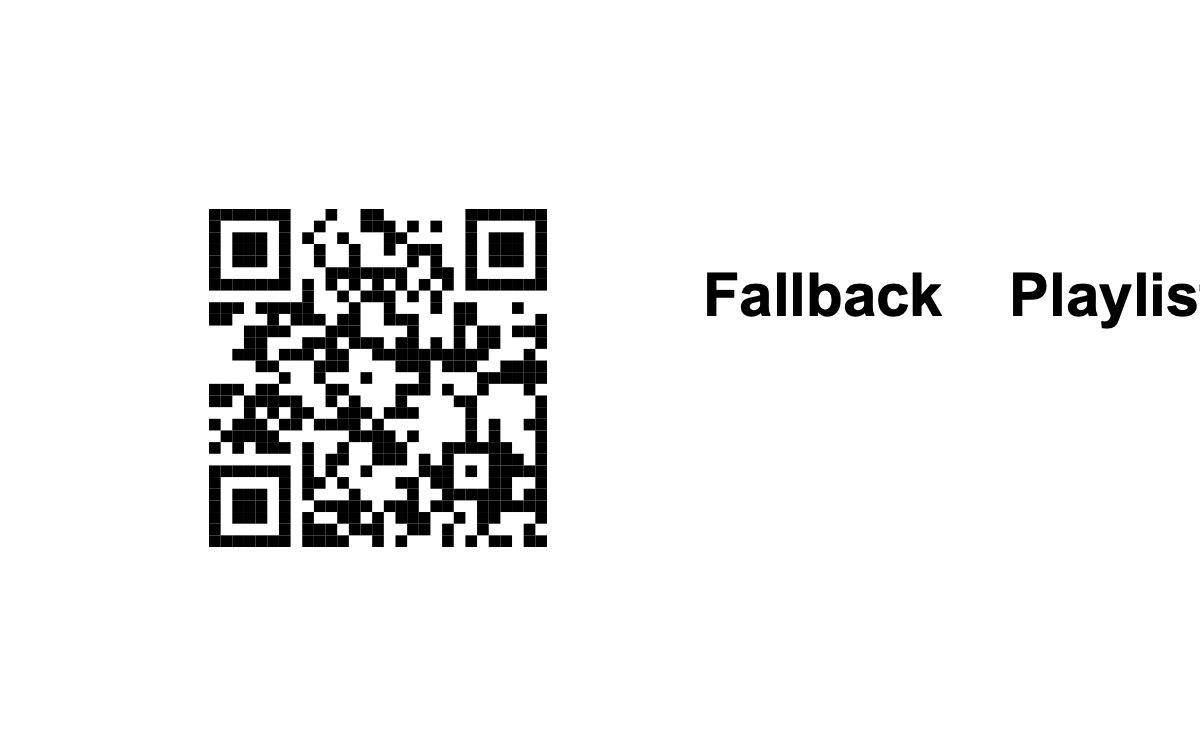
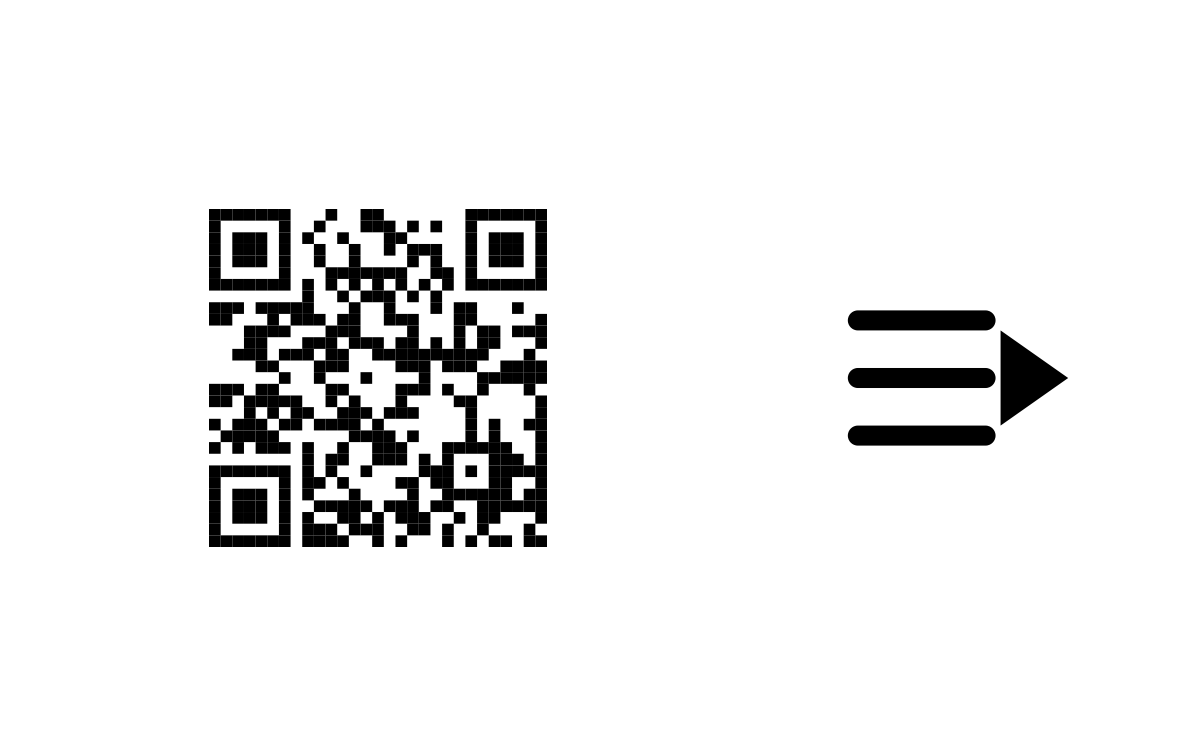
Use symbols on validation control cards

Changed region(s): [[0.5858, 0.3347, 1.0, 0.6085]]

diff --git a/scripts/generate_validation_cards.py b/scripts/generate_validation_cards.py
@@ -19,6 +19,8 @@ QR_SCALE = 0.5
 QR_BORDER_MODULES = 4
 CARD_BACKGROUND = "#FFFFFF"
 TEXT_COLOR = "#000000"
+SYMBOL_VIEWBOX_SIZE = 200
+SYMBOL_STROKE_WIDTH = 16
 
 LABELS = {
     "control-smoke-track": "Smoke Track",
@@ -43,8 +45,8 @@ def parse_args() -> argparse.Namespace:
     )
     parser.add_argument(
         "--output-dir",
-        default="spec/control cards",
-        help="Directory for the generated card PNGs. Defaults to spec/control cards.",
+        default="docs/control cards",
+        help="Directory for the generated card PNGs. Defaults to docs/control cards.",
     )
     return parser.parse_args()
 
@@ -70,6 +72,7 @@ def main() -> None:
             output_path=png_path,
             label=label,
             payload=payload,
+            symbol=stem,
         )
 
 
@@ -80,8 +83,9 @@ def render_card_png(
     output_path: Path,
     label: str,
     payload: str,
+    symbol: str,
 ) -> None:
-    svg = render_card_svg(label=label, payload=payload)
+    svg = render_card_svg(label=label, payload=payload, symbol=symbol)
     with tempfile.TemporaryDirectory() as temp_dir_name:
         temp_dir = Path(temp_dir_name)
         temp_svg = temp_dir / f"{output_path.stem}.svg"
@@ -102,19 +106,25 @@ def render_card_png(
         if qlmanage is None:
             raise RuntimeError("No working PNG rasterizer is available for validation cards.")
 
-        subprocess.run(
-            [str(qlmanage), "-t", "-s", str(CANVAS_WIDTH), "-o", str(temp_dir), str(temp_svg)],
-            check=True,
-            capture_output=True,
-            text=True,
-        )
+        try:
+            subprocess.run(
+                [str(qlmanage), "-t", "-s", str(CANVAS_WIDTH), "-o", str(temp_dir), str(temp_svg)],
+                check=True,
+                capture_output=True,
+                text=True,
+            )
+        except subprocess.CalledProcessError as exc:
+            raise RuntimeError(
+                "Quick Look rasterization failed. See docs/control cards/README.md for the "
+                "recommended regeneration workflow."
+            ) from exc
         quicklook_output = temp_dir / f"{temp_svg.name}.png"
         if not quicklook_output.is_file():
             raise FileNotFoundError(f"Quick Look did not produce the expected PNG: {quicklook_output}")
         quicklook_output.replace(output_path)
 
 
-def render_card_svg(*, label: str, payload: str) -> str:
+def render_card_svg(*, label: str, payload: str, symbol: str | None = None) -> str:
     modules = build_qr_modules(payload)
     qr_module_count = len(modules)
     qr_area_size = CANVAS_HEIGHT - (2 * PADDING)
@@ -127,11 +137,9 @@ def render_card_svg(*, label: str, payload: str) -> str:
     right_y = PADDING
     right_width = CANVAS_WIDTH - right_x - PADDING
     right_height = qr_area_size
-
-    label_lines = wrap_label(label)
-    line_height = 72
-    label_block_height = line_height * len(label_lines)
-    label_start_y = right_y + (right_height / 2) - (label_block_height / 2) + 10
+    symbol_center_x = right_x + (right_width / 2)
+    symbol_center_y = right_y + (right_height / 2)
+    symbol_scale = (min(right_width, right_height) * 0.62) / SYMBOL_VIEWBOX_SIZE
 
     lines = [
         '<?xml version="1.0" encoding="UTF-8"?>',
@@ -142,7 +150,7 @@ def render_card_svg(*, label: str, payload: str) -> str:
         f"  <title>{escape(label)}</title>",
         f'  <rect width="{CANVAS_WIDTH}" height="{CANVAS_HEIGHT}" fill="{CARD_BACKGROUND}"/>',
         f'  <rect x="{qr_origin_x}" y="{qr_origin_y}" width="{qr_size}" height="{qr_size}" fill="#FFFFFF"/>',
-        '  <g fill="#000000">',
+        '  <g id="qr-modules" fill="#000000">',
     ]
 
     for y, row in enumerate(modules):
@@ -158,34 +166,153 @@ def render_card_svg(*, label: str, payload: str) -> str:
     lines.extend(
         [
             "  </g>",
-            (
-                f'  <text x="{right_x + (right_width / 2):.1f}" y="{label_start_y:.1f}" '
-                f'font-family="Arial, Helvetica, sans-serif" font-size="60" font-weight="700" '
-                f'fill="{TEXT_COLOR}" text-anchor="middle">'
+            *render_symbol_svg(
+                symbol=symbol or label,
+                center_x=symbol_center_x,
+                center_y=symbol_center_y,
+                scale=symbol_scale,
             ),
         ]
     )
-    for index, line in enumerate(label_lines):
-        dy = 0 if index == 0 else line_height
-        lines.append(f'    <tspan x="{right_x + (right_width / 2):.1f}" dy="{dy}">{escape(line)}</tspan>')
-    lines.extend(["  </text>", "</svg>"])
+    lines.append("</svg>")
     return "\n".join(lines) + "\n"
 
 
-def wrap_label(label: str) -> list[str]:
-    words = label.split()
-    lines: list[str] = []
-    current: list[str] = []
-    for word in words:
-        candidate = " ".join([*current, word])
-        if len(candidate) <= 13 or not current:
-            current.append(word)
-            continue
-        lines.append(" ".join(current))
-        current = [word]
-    if current:
-        lines.append(" ".join(current))
-    return lines
+def render_symbol_svg(*, symbol: str, center_x: float, center_y: float, scale: float) -> list[str]:
+    renderers = {
+        "control-smoke-track": render_music_note_symbol,
+        "control-fallback-album": render_album_symbol,
+        "control-fallback-playlist": render_playlist_symbol,
+        "control-playback-stop": render_stop_symbol,
+        "control-playback-next": render_next_symbol,
+        "control-mode-replace": render_replace_mode_symbol,
+        "control-mode-queue": render_queue_mode_symbol,
+        "control-volume-low": lambda: render_volume_symbol(waves=1),
+        "control-volume-medium": lambda: render_volume_symbol(waves=2),
+        "control-volume-high": lambda: render_volume_symbol(waves=3),
+        "control-setup-wifi-reset": render_wifi_reset_symbol,
+        "control-setup-receiver-reauth": render_receiver_reauth_symbol,
+        "control-system-shutdown": render_shutdown_symbol,
+    }
+    elements = renderers.get(symbol, render_unknown_symbol)()
+    return [
+        (
+            f'  <g id="card-symbol" data-symbol="{escape(symbol)}" '
+            f'transform="translate({center_x:.1f} {center_y:.1f}) scale({scale:.3f})" '
+            f'stroke="{TEXT_COLOR}" fill="none" stroke-width="{SYMBOL_STROKE_WIDTH}" '
+            'stroke-linecap="round" stroke-linejoin="round">'
+        ),
+        *[f"    {element}" for element in elements],
+        "  </g>",
+    ]
+
+
+def render_music_note_symbol() -> list[str]:
+    return [
+        '<ellipse cx="-34" cy="58" rx="24" ry="22" fill="#000000" stroke="none"/>',
+        '<ellipse cx="34" cy="34" rx="24" ry="22" fill="#000000" stroke="none"/>',
+        '<rect x="-8" y="-82" width="16" height="122" fill="#000000" stroke="none"/>',
+        '<rect x="60" y="-104" width="16" height="114" fill="#000000" stroke="none"/>',
+        '<polygon points="8,-102 76,-122 76,-56 8,-36" fill="#000000" stroke="none"/>',
+    ]
+
+
+def render_album_symbol() -> list[str]:
+    return [
+        '<circle cx="0" cy="0" r="82"/>',
+        '<circle cx="0" cy="0" r="48"/>',
+        '<circle cx="0" cy="0" r="12" fill="#000000" stroke="none"/>',
+    ]
+
+
+def render_playlist_symbol() -> list[str]:
+    return [
+        '<line x1="-80" y1="-46" x2="22" y2="-46"/>',
+        '<line x1="-80" y1="0" x2="22" y2="0"/>',
+        '<line x1="-80" y1="46" x2="22" y2="46"/>',
+        '<polygon points="34,-38 88,0 34,38" fill="#000000" stroke="none"/>',
+    ]
+
+
+def render_stop_symbol() -> list[str]:
+    return [
+        '<rect x="-56" y="-56" width="112" height="112" rx="12" fill="#000000" stroke="none"/>',
+    ]
+
+
+def render_next_symbol() -> list[str]:
+    return [
+        '<polygon points="-84,-62 -28,0 -84,62" fill="#000000" stroke="none"/>',
+        '<polygon points="-28,-62 28,0 -28,62" fill="#000000" stroke="none"/>',
+        '<rect x="48" y="-74" width="20" height="148" rx="10" fill="#000000" stroke="none"/>',
+    ]
+
+
+def render_replace_mode_symbol() -> list[str]:
+    return [
+        '<line x1="-82" y1="-46" x2="14" y2="-46"/>',
+        '<line x1="-82" y1="0" x2="14" y2="0"/>',
+        '<line x1="-82" y1="46" x2="14" y2="46"/>',
+        '<line x1="38" y1="-24" x2="82" y2="24"/>',
+        '<line x1="82" y1="-24" x2="38" y2="24"/>',
+    ]
+
+
+def render_queue_mode_symbol() -> list[str]:
+    return [
+        '<line x1="-82" y1="-46" x2="14" y2="-46"/>',
+        '<line x1="-82" y1="0" x2="14" y2="0"/>',
+        '<line x1="-82" y1="46" x2="14" y2="46"/>',
+        '<line x1="60" y1="-28" x2="60" y2="28"/>',
+        '<line x1="32" y1="0" x2="88" y2="0"/>',
+    ]
+
+
+def render_volume_symbol(*, waves: int) -> list[str]:
+    elements = [
+        '<polygon points="-84,-28 -48,-28 -14,-60 -14,60 -48,28 -84,28" fill="#000000" stroke="none"/>',
+    ]
+    wave_paths = [
+        '<path d="M 18 -18 Q 40 0 18 18"/>',
+        '<path d="M 34 -38 Q 72 0 34 38"/>',
+        '<path d="M 50 -58 Q 104 0 50 58"/>',
+    ]
+    elements.extend(wave_paths[:waves])
+    return elements
+
+
+def render_wifi_reset_symbol() -> list[str]:
+    return [
+        '<path d="M -78 10 Q 0 -64 78 10"/>',
+        '<path d="M -52 26 Q 0 -22 52 26"/>',
+        '<path d="M -26 44 Q 0 18 26 44"/>',
+        '<circle cx="0" cy="64" r="8" fill="#000000" stroke="none"/>',
+        '<path d="M 16 -78 A 92 92 0 1 0 82 20"/>',
+        '<polyline points="60,14 82,20 76,-2"/>',
+    ]
+
+
+def render_receiver_reauth_symbol() -> list[str]:
+    return [
+        '<rect x="-84" y="-54" width="88" height="108" rx="16"/>',
+        '<line x1="-62" y1="70" x2="-18" y2="70"/>',
+        '<circle cx="52" cy="-8" r="22"/>',
+        '<path d="M 30 -8 H -10 V 18 H 8 V 4 H 24"/>',
+    ]
+
+
+def render_shutdown_symbol() -> list[str]:
+    return [
+        '<path d="M 0 -88 V -18"/>',
+        '<path d="M 48 -66 A 74 74 0 1 1 -48 -66"/>',
+    ]
+
+
+def render_unknown_symbol() -> list[str]:
+    return [
+        '<circle cx="0" cy="0" r="82"/>',
+        '<line x1="-34" y1="0" x2="34" y2="0"/>',
+    ]
 
 
 if __name__ == "__main__":

diff --git a/tests/test_generate_validation_cards.py b/tests/test_generate_validation_cards.py
@@ -23,6 +23,7 @@ class ValidationCardLayoutTests(unittest.TestCase):
         svg = validation_cards.render_card_svg(
             label="Stop",
             payload="jukebox:playback:stop",
+            symbol="control-playback-stop",
         )
 
         root = ET.fromstring(svg)
@@ -41,12 +42,23 @@ class ValidationCardLayoutTests(unittest.TestCase):
         self.assertAlmostEqual(float(qr_rect.attrib["width"]), expected_qr_size)
         self.assertAlmostEqual(float(qr_rect.attrib["height"]), expected_qr_size)
 
-        text = root.find("./svg:text", SVG_NS)
-        self.assertIsNotNone(text)
-        assert text is not None
-        self.assertAlmostEqual(float(text.attrib["x"]), right_x + (right_width / 2))
+        symbol = root.find("./svg:g[@id='card-symbol']", SVG_NS)
+        self.assertIsNotNone(symbol)
+        assert symbol is not None
+        expected_center_x = right_x + (right_width / 2)
+        expected_center_y = validation_cards.PADDING + (qr_area_size / 2)
+        expected_scale = (min(right_width, qr_area_size) * 0.62) / validation_cards.SYMBOL_VIEWBOX_SIZE
 
-        module_rects = root.findall("./svg:g/svg:rect", SVG_NS)
+        self.assertEqual(symbol.attrib["data-symbol"], "control-playback-stop")
+        self.assertEqual(
+            symbol.attrib["transform"],
+            f"translate({expected_center_x:.1f} {expected_center_y:.1f}) scale({expected_scale:.3f})",
+        )
+        self.assertEqual(root.find("./svg:title", SVG_NS).text, "Stop")
+        self.assertIsNone(root.find("./svg:text", SVG_NS))
+        self.assertGreater(len(list(symbol)), 0)
+
+        module_rects = root.findall("./svg:g[@id='qr-modules']/svg:rect", SVG_NS)
         self.assertGreater(len(module_rects), 0)
         for rect in module_rects:
             rect_x = float(rect.attrib["x"])

diff --git a/scripts/generate_validation_qrs.py b/scripts/generate_validation_qrs.py
@@ -33,7 +33,7 @@ PAYLOADS = (
 
 
 def main() -> None:
-    output_dir = Path("spec/qr codes/control")
+    output_dir = Path("docs/qr codes/control")
     output_dir.mkdir(parents=True, exist_ok=True)
 
     for stem, payload in PAYLOADS:

diff --git a/docs/control cards/README.md b/docs/control cards/README.md
@@ -1,0 +1,40 @@
+# Control Cards
+
+These PNGs are the printable EPIC-4 validation control cards.
+They pair the control QR payloads from [docs/qr codes/control](/Users/markus/Workspace/jukebox/docs/qr%20codes/control) with the printable card layout from `scripts/generate_validation_cards.py`.
+
+## Regeneration Workflow
+
+Refresh the QR SVG set first:
+
+```sh
+python3 scripts/generate_validation_qrs.py
+```
+
+Then regenerate the printable PNG cards:
+
+```sh
+python3 scripts/generate_validation_cards.py
+```
+
+The current defaults write back into the checked-in asset folders:
+
+- QR SVGs: `docs/qr codes/control`
+- Printable PNGs: `docs/control cards`
+
+## Rasterization Notes
+
+The printable-card generator renders SVG first and then rasterizes to PNG.
+On macOS it tries:
+
+1. `sips`
+2. `qlmanage` (Quick Look) as a fallback
+
+In practice, these control-card SVGs may require the `qlmanage` fallback even when `sips` is installed.
+If PNG generation fails from a sandboxed or headless tool session, rerun the command from a normal macOS shell so Quick Look can perform the conversion.
+
+After regeneration, inspect the asset diff with:
+
+```sh
+git diff -- 'docs/qr codes/control' 'docs/control cards'
+```

diff --git a/docs/pi-validation.md b/docs/pi-validation.md
@@ -5,7 +5,7 @@ It extends the EPIC 3 reboot, recovery, and scan-to-playback baseline with the n
 
 Use [docs/pi-setup-log.md](/Users/markus/Workspace/jukebox/docs/pi-setup-log.md) to record the exact Pi, image, and validation outcome for each run.
 
-## Validation QR Payloads
+## Control Asset Payloads
 
 The exact validation QR payloads are:
 
@@ -23,7 +23,8 @@ The exact validation QR payloads are:
 - Receiver re-auth: `jukebox:setup:receiver-reauth`
 - Shutdown: `jukebox:system:shutdown`
 
-Generated QR images for those payloads live under [spec/qr codes/control](/Users/markus/Workspace/jukebox/spec/qr%20codes/control), and printable command cards live under [spec/control cards](/Users/markus/Workspace/jukebox/spec/control%20cards).
+Generated QR images for those payloads live under [docs/qr codes/control](/Users/markus/Workspace/jukebox/docs/qr%20codes/control), and printable command cards live under [docs/control cards](/Users/markus/Workspace/jukebox/docs/control%20cards).
+Use those `docs/` paths as the current asset source of truth during validation.
 
 ## Remote Smoke Validation
 

diff --git a/docs/qr codes/control/README.md b/docs/qr codes/control/README.md
@@ -1,6 +1,7 @@
 # Control QR Codes
 
 These SVG QR codes are generated from the exact payloads used in the EPIC-4 control-card validation flow.
+Printable PNG card outputs and rasterization notes live in [docs/control cards/README.md](/Users/markus/Workspace/jukebox/docs/control%20cards/README.md).
 
 Files in this directory:
 
